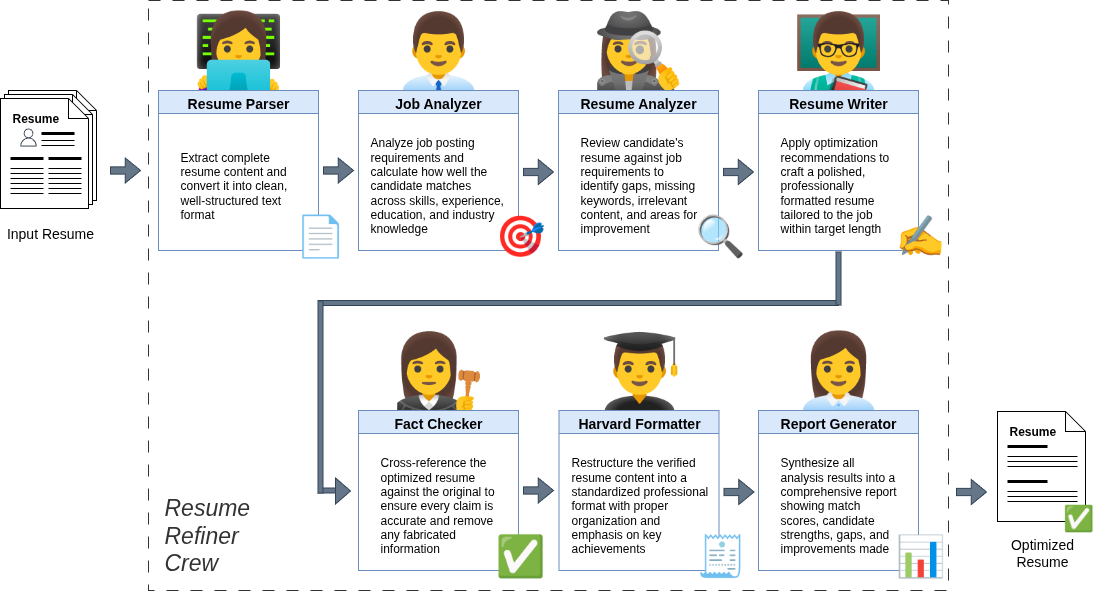
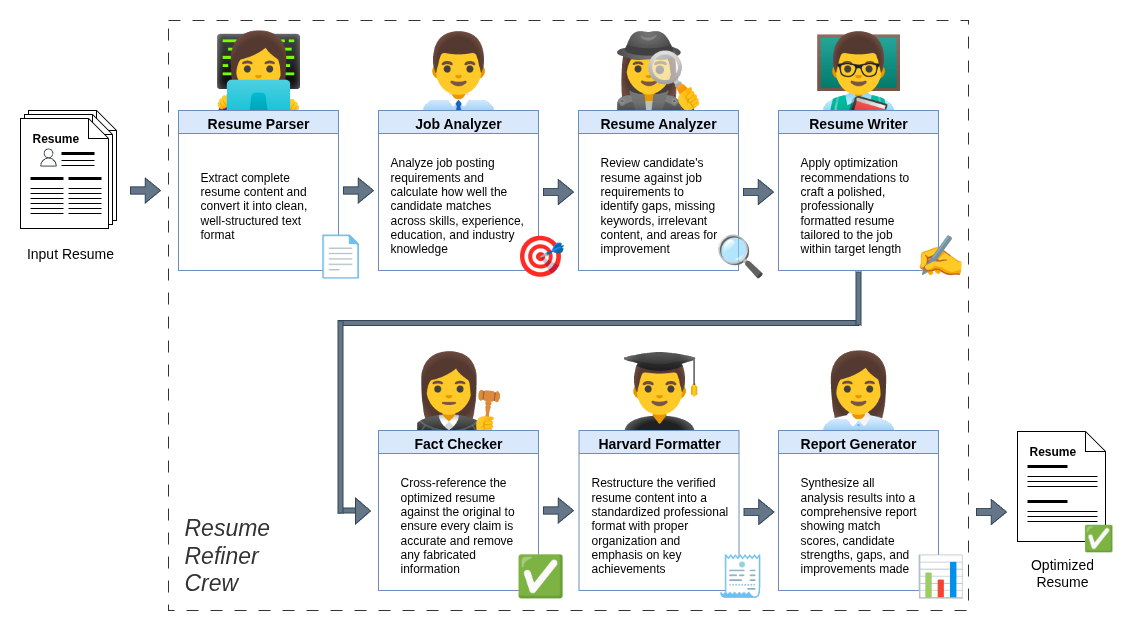
imp: add guidelines for specific skills section formatting, and some minor style improvements

Changed region(s): [[0.0, 0.0, 0.8662, 1.0], [0.8662, 0.6701, 1.0, 0.9746], [0.1237, 0.8223, 0.2475, 0.9746]]

diff --git a/streamlit_app.py b/streamlit_app.py
@@ -431,7 +431,7 @@ def show_processing_progress():
         st.info("⏳ Working on your resume...")
 
     # Crew image
-    st.image("./media/agents-flow.png")
+    st.image("./media/agents-flow-2-rows.png")
 
     # Progress bar
     progress_value = completed / total_tasks
@@ -496,7 +496,6 @@ elif st.session_state.completed:
                     st.session_state.edited_tex = original_content
 
                 # PDF PREVIEW SECTION (Outside expander)
-                st.subheader("PDF Preview")
                 if pdf_path.exists():
                     # Display PDF using iframe
                     with open(pdf_path, "rb") as f:
@@ -649,8 +648,6 @@ elif st.session_state.completed:
                 type="secondary",
                 use_container_width=True
             )
-
-        st.divider()
 
     else:
         # Error handling
